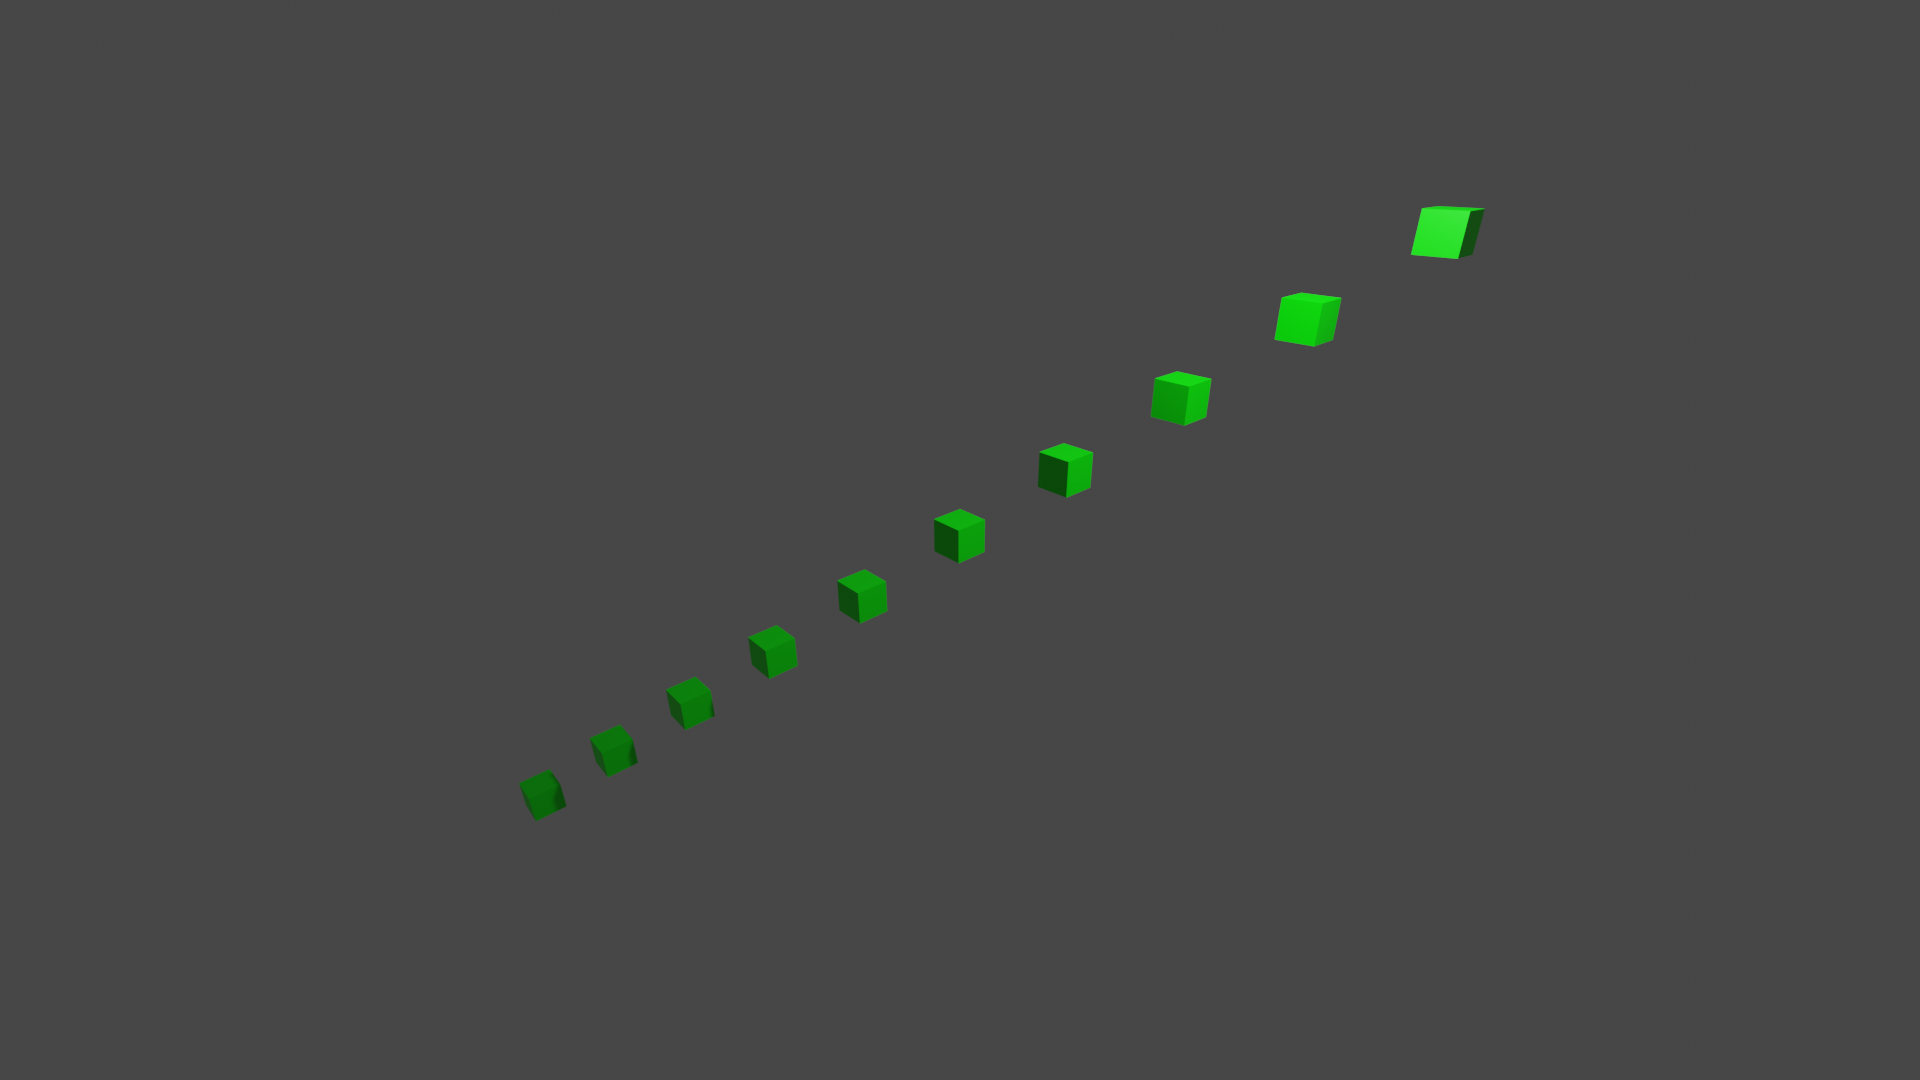
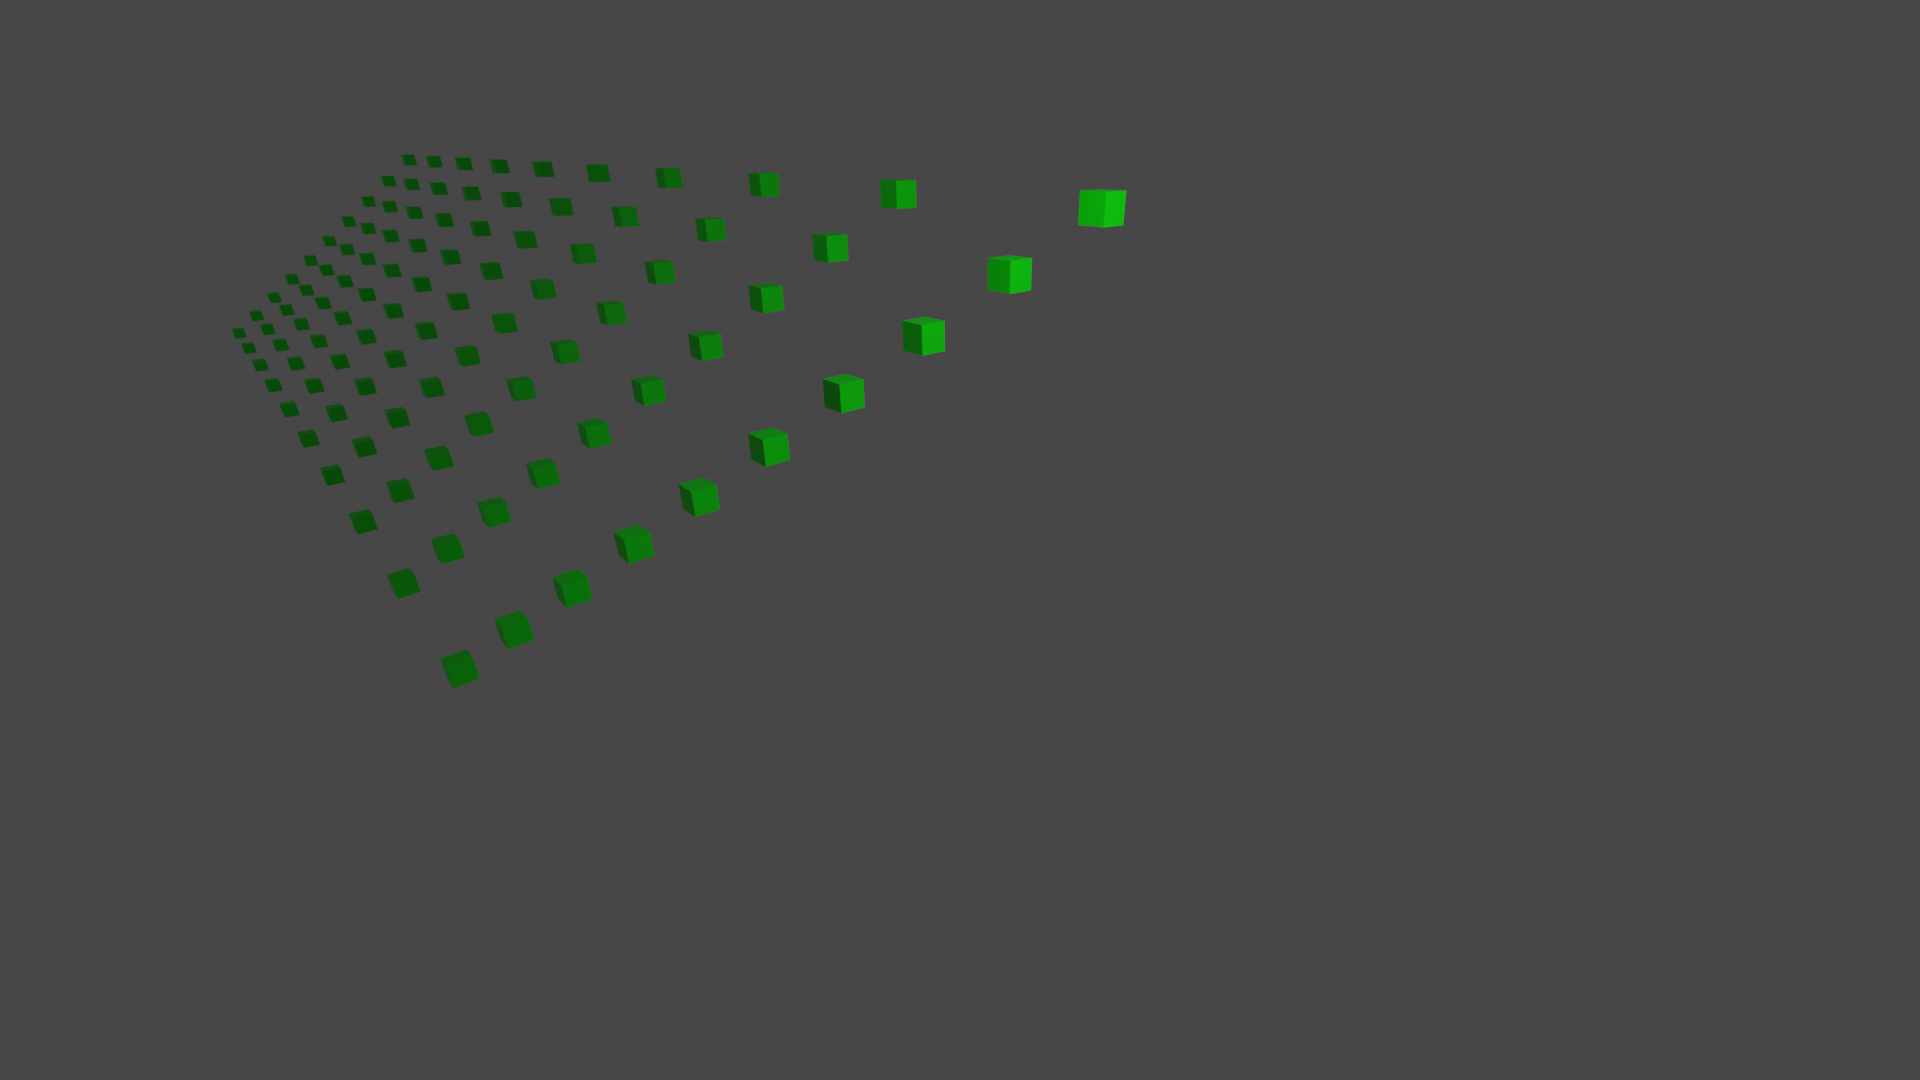
feat: add ability to create rows of crops and control crop distance

diff --git a/launch.py b/launch.py
@@ -42,13 +42,27 @@ with open(openfile, "r") as file:
     bpy.data.objects["Camera"].name = a
     bpy.data.objects[a].data.lens_unit = 'FOV'
     bpy.data.objects[a].data.angle= math.radians(100)
-    num_crops = input_file['num_crops']
     collection = bpy.data.collections.new(name="Collection")
     bpy.context.scene.collection.children.link(collection)
     
+    
+    CROP_SIZE = 0.5
+    num_crops = input_file['num_crops']
+    num_rows = input_file['num_crop_rows']
+    crop_distance = input_file['num_crop_distance']
+    split = int(num_crops/num_rows)
+    
+    row = 0
+    origin = 0
     for crop in range(num_crops):
-        loc = crop - num_crops/2 # trying to center the cubes a little
-        bpy.ops.mesh.primitive_cube_add(location=(loc, loc, loc), size=0.5)
+        if crop % split == 0:
+            row += 1
+            origin = 0
+            
+        loc = origin - num_crops/num_rows/2 # trying to center the cubes a little
+        locx = origin - num_crops/num_rows/2 - crop_distance*row
+        origin += 1
+        bpy.ops.mesh.primitive_cube_add(location=(locx, loc, loc), size=CROP_SIZE)
         bpy.context.active_object.name = 'cube'
         cube = bpy.context.object
         for ob in cube.users_collection[:]: #unlink from all preceeding object collections
@@ -70,8 +84,6 @@ with open(openfile, "r") as file:
         ob.active_material = matr
         bpy.context.collection.objects.link(ob)
 
-
-    
 
     output_loc = args.outfile[0]
     print("CURRENT" + current_working_directory)
